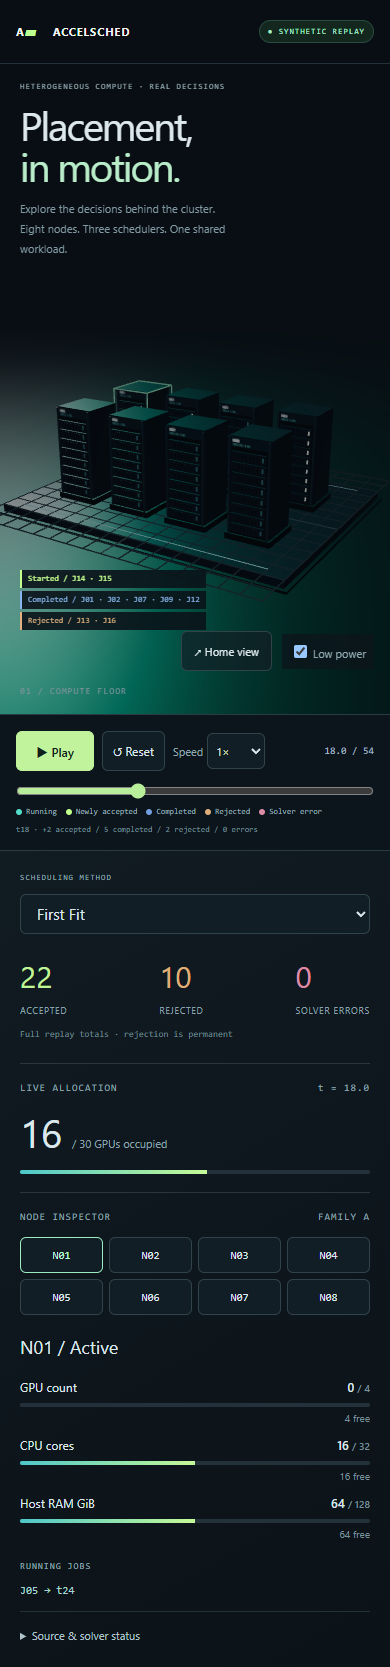
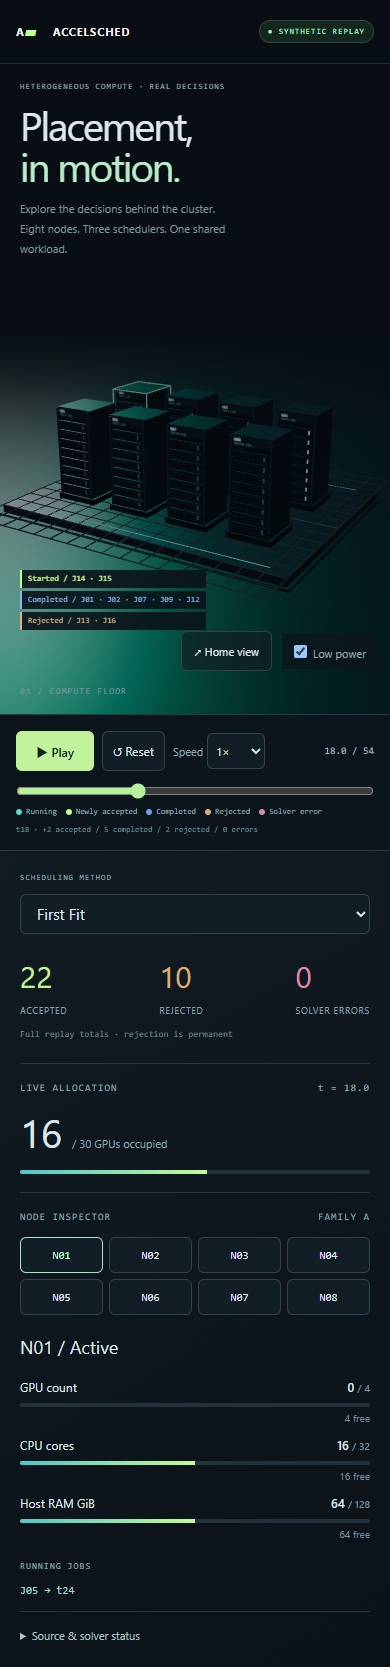
test(demo): pin clean export provenance and production preview evidence

diff --git a/demos/accelsched-3d/evidence/verification.md b/demos/accelsched-3d/evidence/verification.md
@@ -5,7 +5,8 @@ Date: 2026-10-30 (Europe/Zurich). Isolated branch:
 `9dc0c263d2aefeb151d565166b6b950e2ac9f6a5`.
 Delivery commit is recorded in the Draft PR. Export source revision and dirty flag
 are embedded in `public/data/replay.json`; the final export was regenerated from
-a clean implementation commit, so the provenance includes the exporter itself.
+a clean implementation commit, so the provenance includes the exporter itself:
+`98df0a0b81fad53048b666753589f0daa5a3dd51`, `source_dirty=false`.
 
 | Gate | Result | Evidence |
 | --- | --- | --- |
@@ -15,7 +16,7 @@ a clean implementation commit, so the provenance includes the exporter itself.
 | Negative checker / solver-error paths | PASS | Corrupted ledger rejected; test-only injected engine solver failures stay errors, never rejections/running |
 | Python tests | PASS | `python -m pytest -q tests/test_3d_replay.py tests/test_rolling.py`: **56 passed** |
 | Build | PASS | `npm run build`: TypeScript + Vite static production build |
-| Browser | PASS | `npm test`: **4 passed**, installed headless Microsoft Edge |
+| Browser | PASS | `npm test`: **4 passed in 11.5 s**, installed headless Microsoft Edge; final run against production `vite preview`, not the dev server |
 | Desktop + mobile layout | PASS | 1440×1080 and 390×844; screenshots inspected; no horizontal overflow |
 | Interaction | PASS | Method switching, scrub both ways, node button and raycast selection, orbit/zoom, speed, pause/reset, touch taps, final release |
 | Errors / network | PASS | No console errors, page errors or external runtime requests on both primary viewport runs |
@@ -60,6 +61,14 @@ desktop, **not rendered GPU FPS or physical-phone performance**. Low-power mode
 deliberately limits scene rendering to 30 Hz independently of these callbacks.
 Interactions were responsive in the tested browser; real-phone smoothness remains
 an Architect/Scientist follow-up check.
+
+Final production-preview callback sample: desktop median **16.7 ms**, p95
+**17.1 ms**; phone-width median **16.7 ms**, p95 **17.1 ms** (60 intervals each,
+nearest-rank p95). These are observations of this brief local run only. Clean
+`npm ci` installed 27 packages and reported zero vulnerabilities; the environment
+blocked esbuild's install script, but its platform package and production build
+worked without overriding that policy. Raw final outputs: [Python](python-tests.txt),
+[build](build.txt), [browser](browser-tests.txt).
 
 ## Visual review
 
